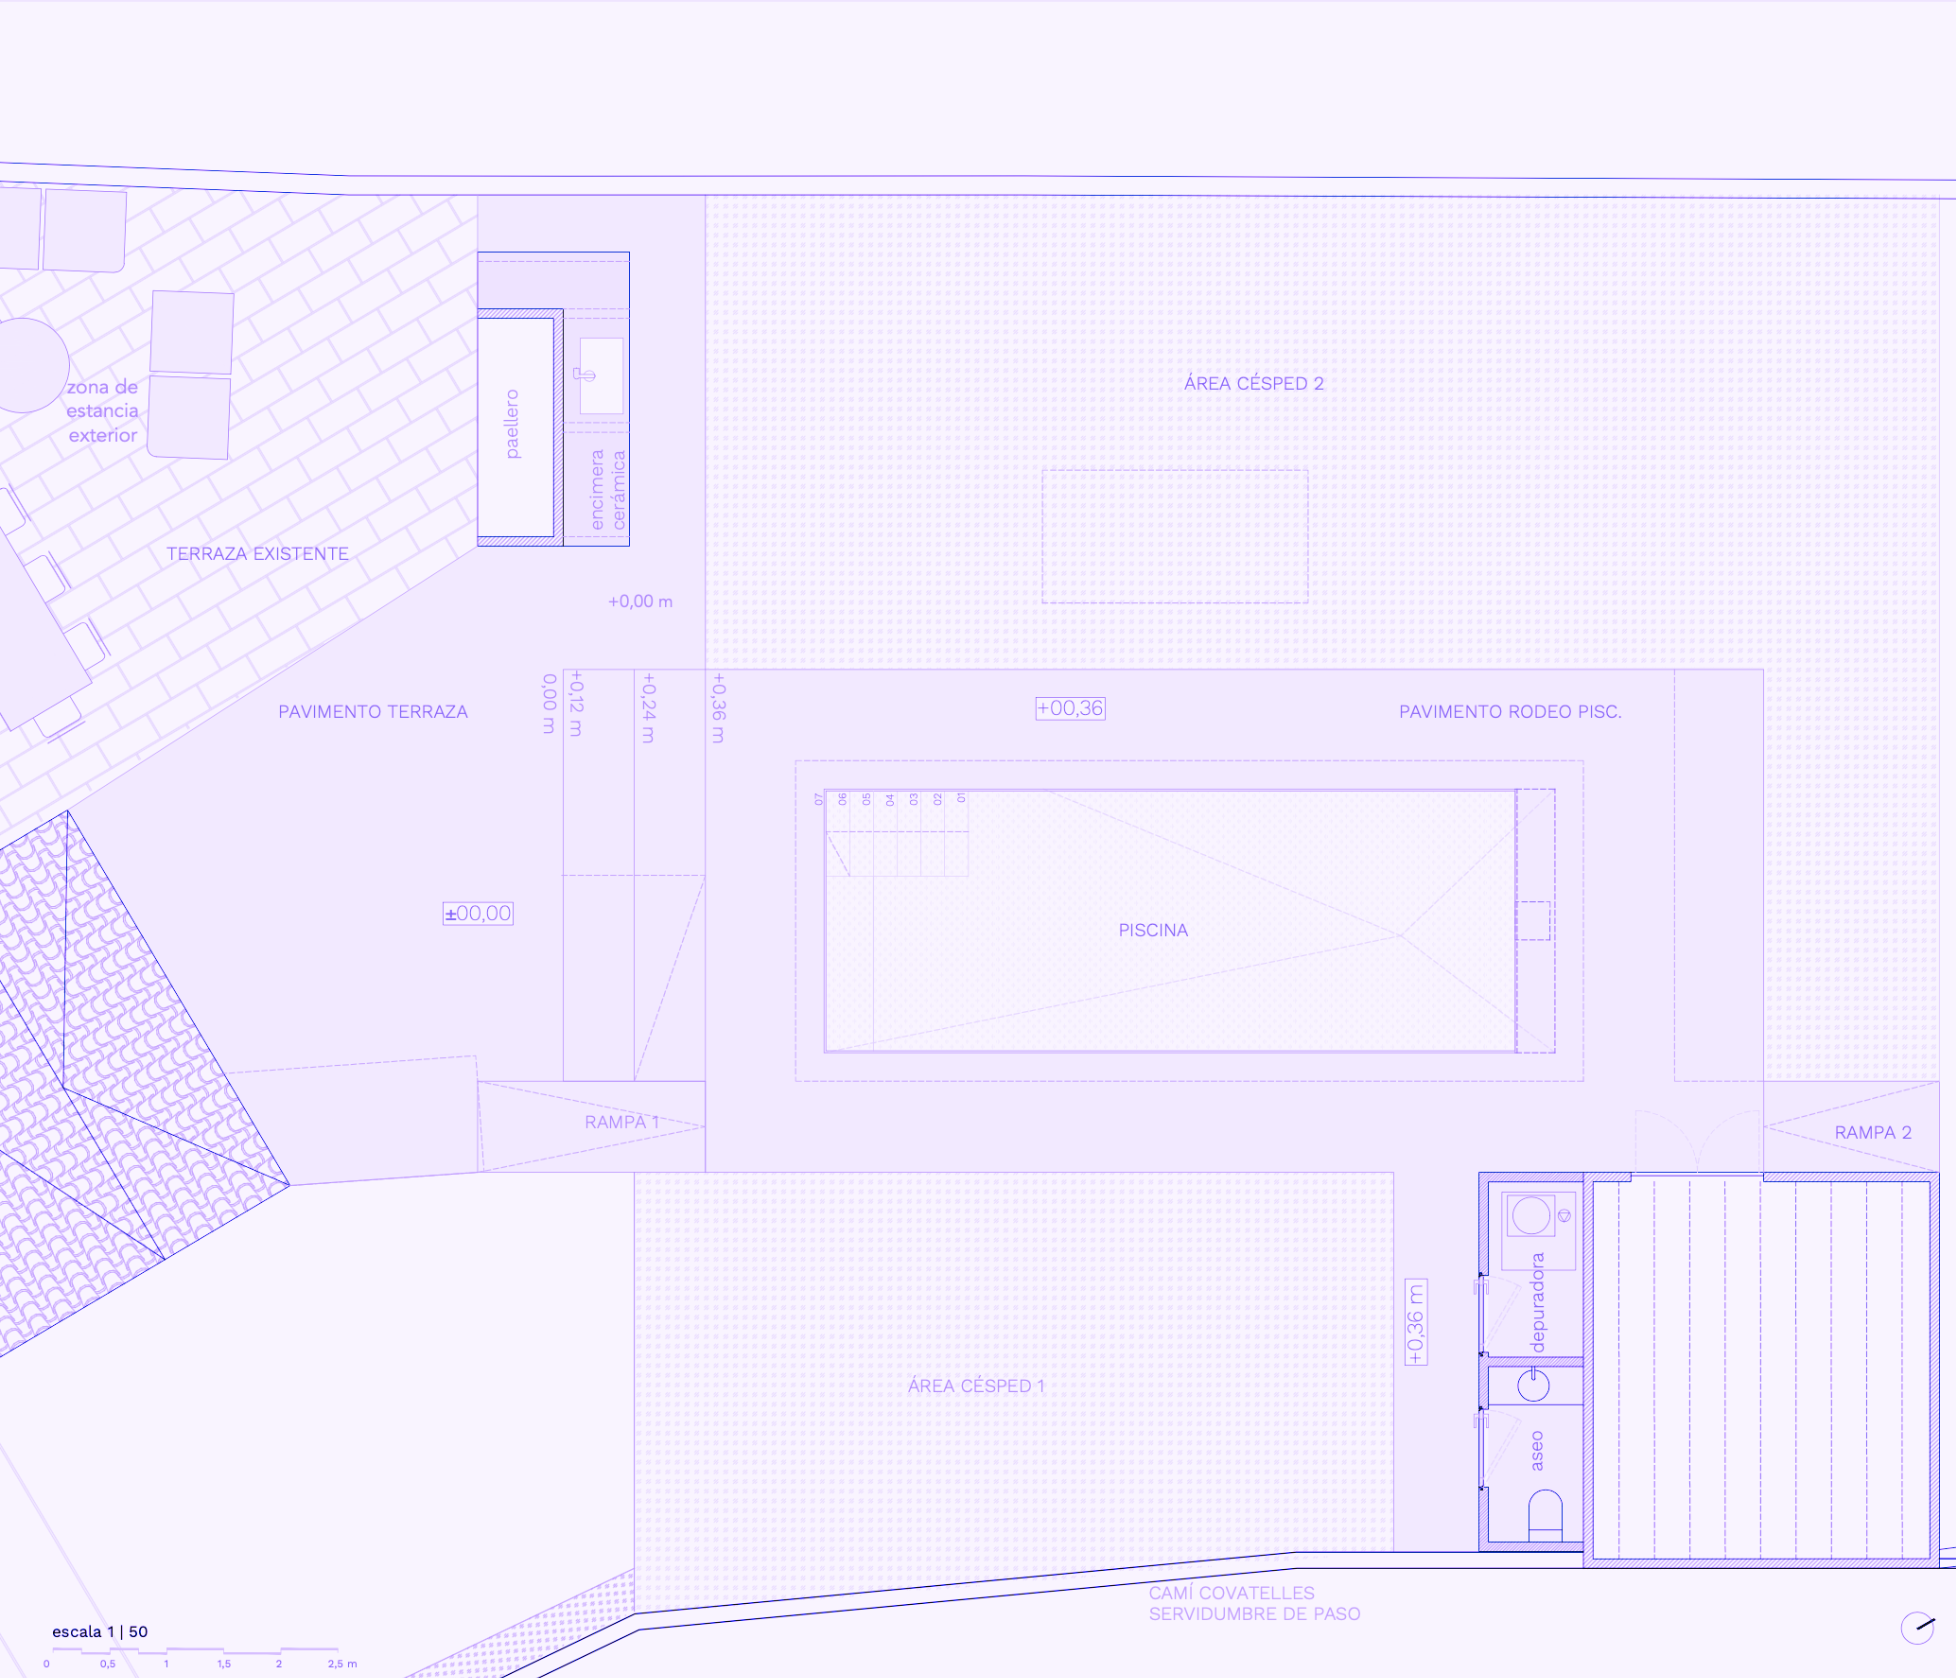
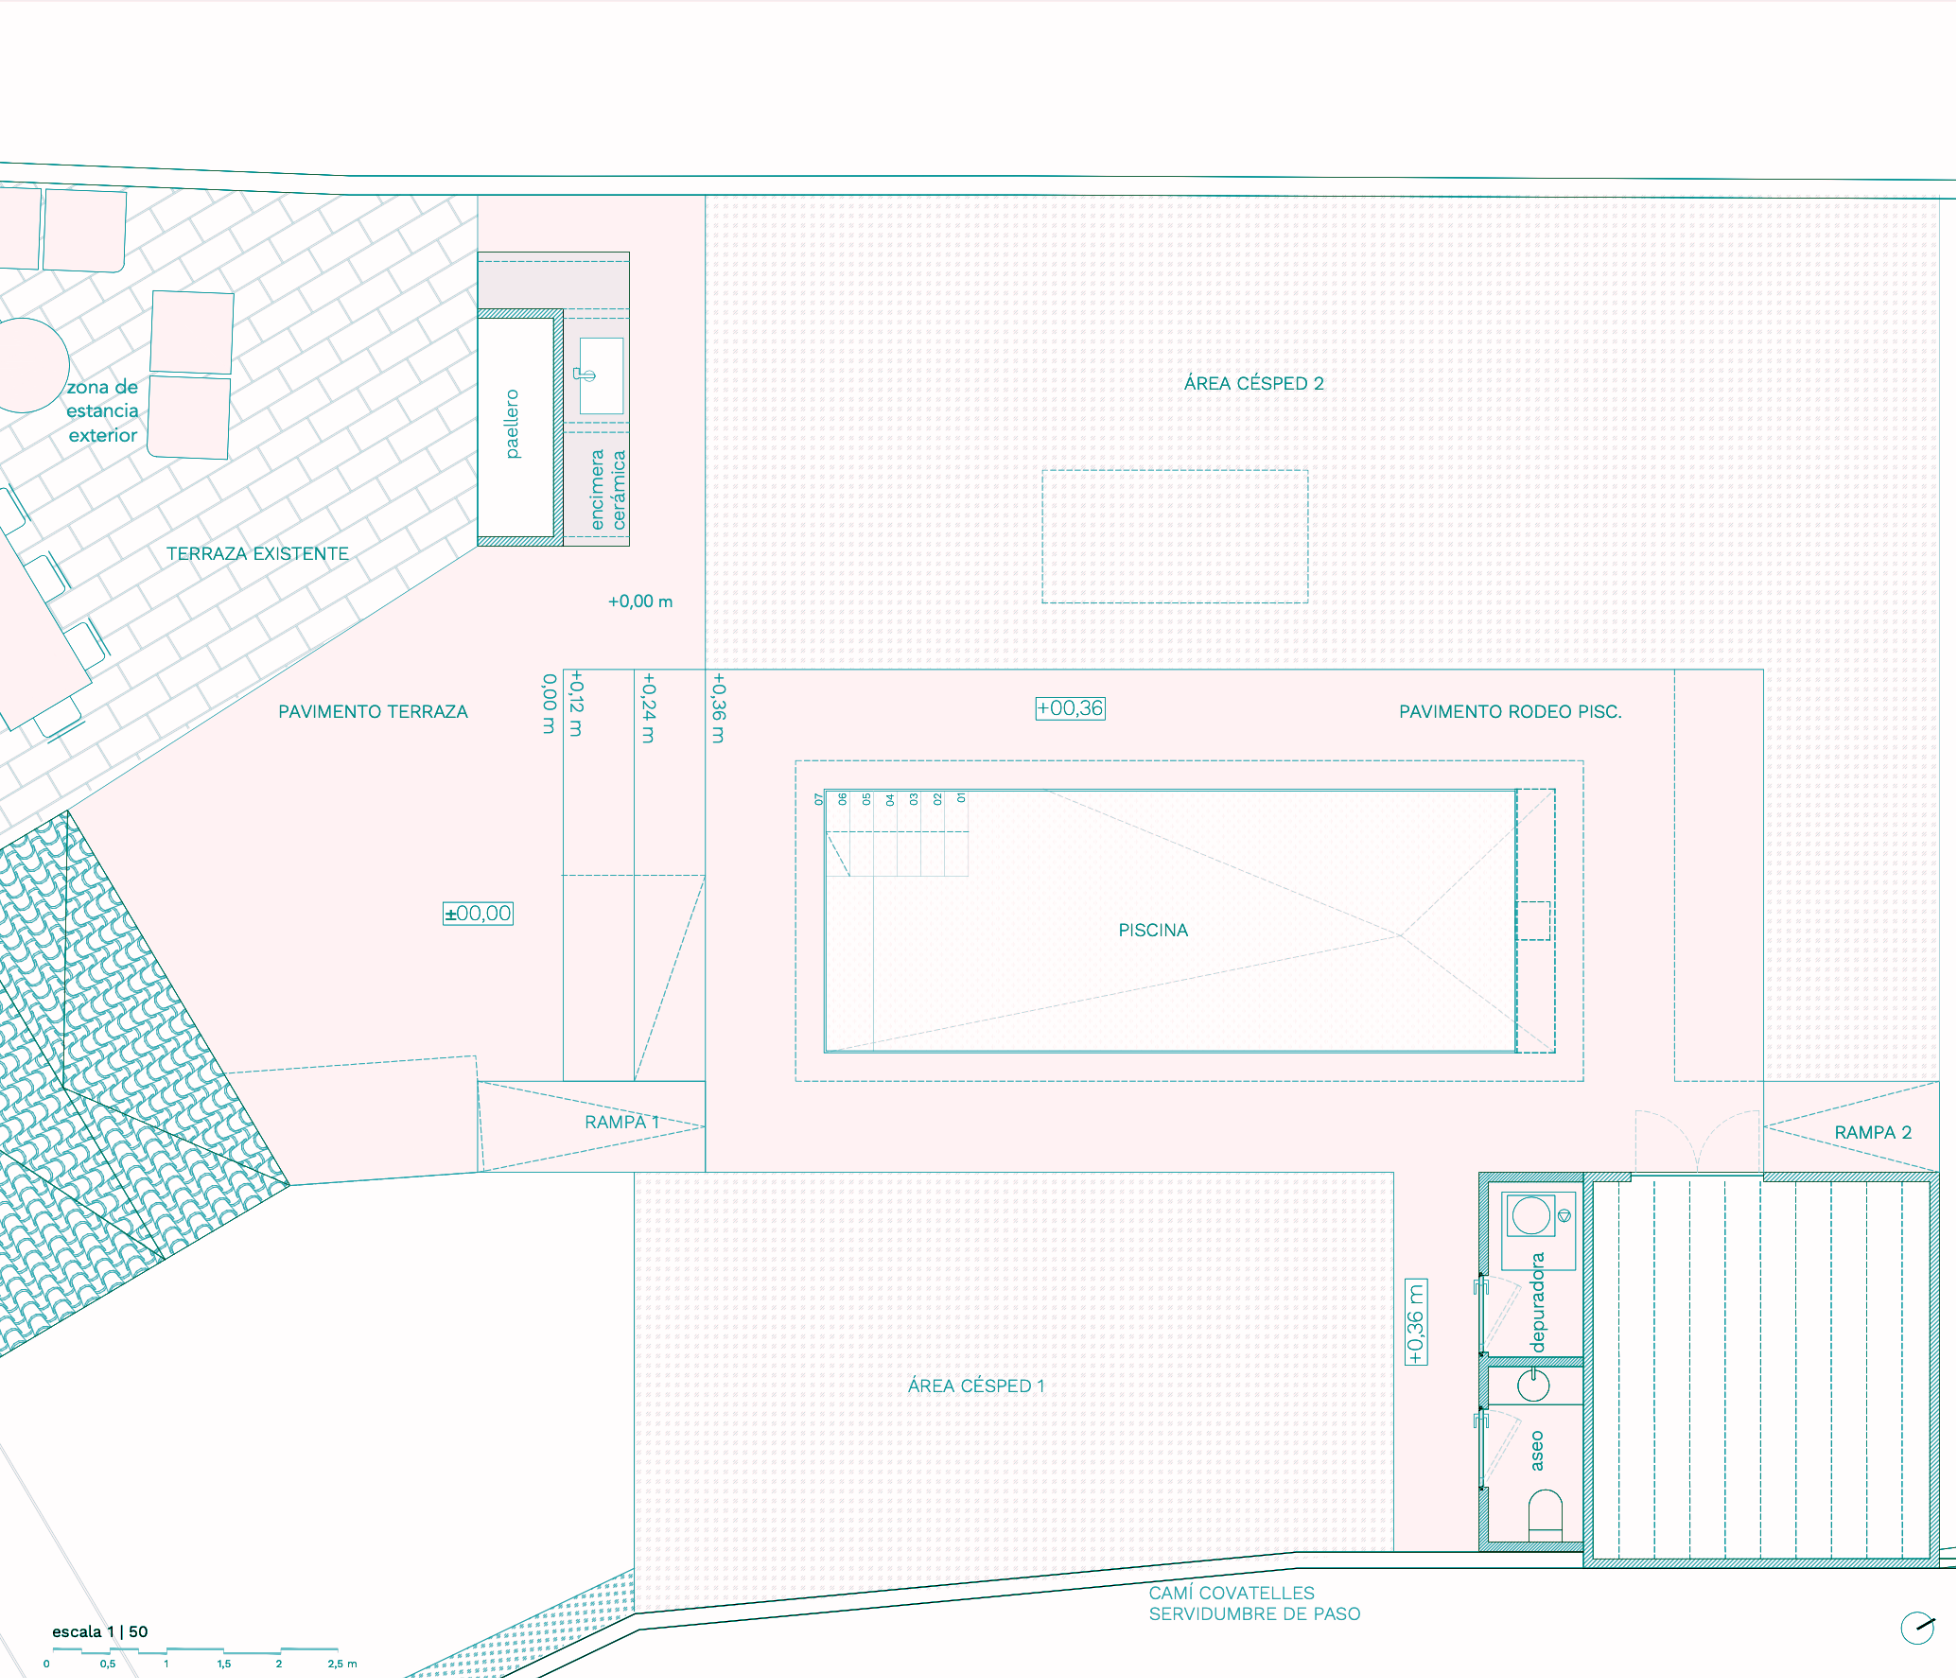
cadauno de un color

diff --git a/home.css b/home.css
@@ -105,7 +105,59 @@
   transform: scale(1.05);
 
 }
+.project-card1 {
+  position: relative;
+  overflow: hidden;
+}
 
+
+.project-card1 a {
+  display: block;
+}
+
+
+.project-title1 {
+
+  position: absolute;
+
+  top: 0;
+  left: 0;
+
+  width: 100%;
+  height: 100%;
+
+  display: flex;
+  justify-content: center;
+  align-items: center;
+
+  background: rgba(0,0,0,0.12);
+
+  color: white;
+
+  font-size: 1.3rem;
+
+  letter-spacing: 3px;
+
+  font-weight: 500;
+  opacity: 0;
+
+  transition: opacity 0.4s ease;
+
+}
+
+
+.project-card1:hover .project-title1 {
+
+  opacity: 1;
+
+}
+
+
+.project-card1:hover .project-img {
+
+  transform: scale(1.05);
+
+}
 
 .project-img {
 

diff --git a/index.html b/index.html
@@ -88,10 +88,10 @@
       </div>
 
       <!-- TARGETA 6 -->
-      <div class="col-12 col-sm-6 col-lg-4 project-card">
+      <div class="col-12 col-sm-6 col-lg-4 project-card1">
         <a href="Proyecto6/proyecto6.html">
           <img src="MATERIAL/Torrent11.png" class="img-fluid project-img" alt="Proyecto Torrent">
-          <div class="project-title">
+          <div class="project-title1">
             VIVIENDA UNIFAMILIAR AISLADA
           </div>
         </a>
